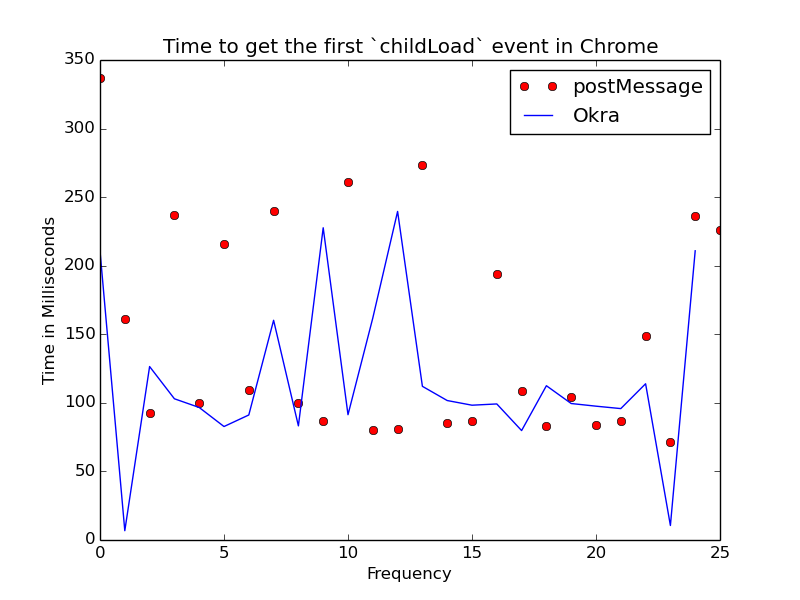
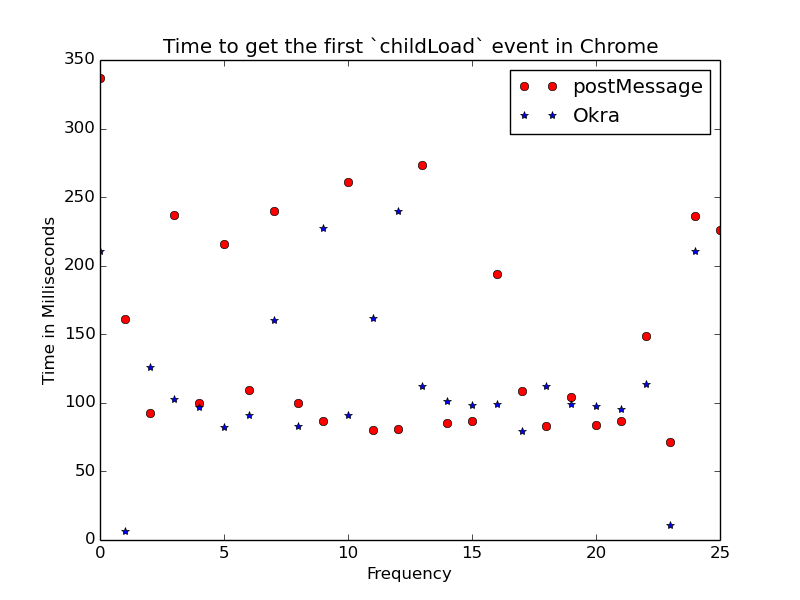
Fixup to the style

diff --git a/results/jul-11-2015/analysis.py b/results/jul-11-2015/analysis.py
@@ -85,7 +85,7 @@ class Stats(object):
         plain, okra = self.get_sets()
 
         okra_plot = plt.plot(okra, 'ro')
-        plain_plot = plt.plot(plain, 'b')
+        plain_plot = plt.plot(plain, 'b*')
 
         plt.legend({
             "Okra": okra_plot,
